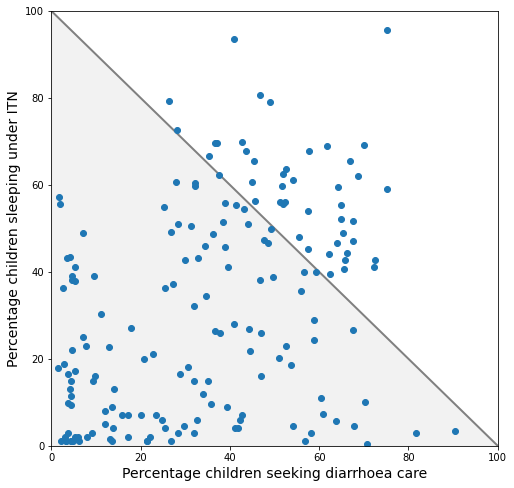
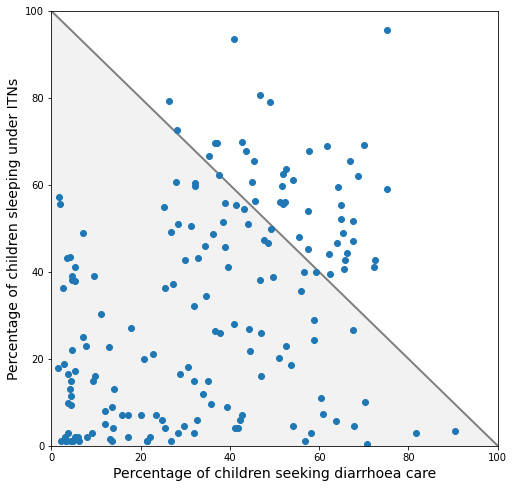
Update documentation

Changed region(s): [[0.0, 0.1537, 0.0623, 0.7992], [0.2179, 0.9529, 0.8405, 0.9836]]

diff --git a/docs/data_analysis.html b/docs/data_analysis.html
@@ -1068,8 +1068,8 @@
 <div class="cell_input docutils container">
 <div class="highlight-ipython3 notranslate"><div class="highlight"><pre><span></span><span class="n">df_itn</span><span class="p">[</span><span class="s1">&#39;National&#39;</span><span class="p">]</span><span class="o">.</span><span class="n">hist</span><span class="p">(</span><span class="n">bins</span> <span class="o">=</span> <span class="nb">range</span><span class="p">(</span><span class="mi">0</span><span class="p">,</span> <span class="mi">101</span><span class="p">,</span> <span class="mi">10</span><span class="p">))</span>
 
-<span class="n">plt</span><span class="o">.</span><span class="n">ylabel</span><span class="p">(</span><span class="s1">&#39;Number country surveys&#39;</span><span class="p">)</span>
-<span class="n">plt</span><span class="o">.</span><span class="n">xlabel</span><span class="p">(</span><span class="s1">&#39;Percentage children sleeping under ITN&#39;</span><span class="p">)</span>
+<span class="n">plt</span><span class="o">.</span><span class="n">ylabel</span><span class="p">(</span><span class="s1">&#39;Number of country surveys&#39;</span><span class="p">)</span>
+<span class="n">plt</span><span class="o">.</span><span class="n">xlabel</span><span class="p">(</span><span class="s1">&#39;Percentage of children sleeping under ITNs&#39;</span><span class="p">)</span>
 
 <span class="n">plt</span><span class="o">.</span><span class="n">show</span><span class="p">()</span>
 </pre></div>
@@ -1124,8 +1124,8 @@
 
 <span class="n">plt</span><span class="o">.</span><span class="n">plot</span><span class="p">(</span><span class="n">data_dc</span><span class="p">,</span> <span class="n">data_itn</span><span class="p">,</span> <span class="s1">&#39;o&#39;</span><span class="p">)</span>
 
-<span class="n">plt</span><span class="o">.</span><span class="n">ylabel</span><span class="p">(</span><span class="s1">&#39;Percentage children sleeping under ITN&#39;</span><span class="p">,</span> <span class="n">size</span><span class="o">=</span> <span class="mi">14</span><span class="p">)</span>
-<span class="n">plt</span><span class="o">.</span><span class="n">xlabel</span><span class="p">(</span><span class="s1">&#39;Percentage children seeking diarrhoea care&#39;</span><span class="p">,</span> <span class="n">size</span> <span class="o">=</span> <span class="mi">14</span><span class="p">)</span>
+<span class="n">plt</span><span class="o">.</span><span class="n">ylabel</span><span class="p">(</span><span class="s1">&#39;Percentage of children sleeping under ITNs&#39;</span><span class="p">,</span> <span class="n">size</span><span class="o">=</span> <span class="mi">14</span><span class="p">)</span>
+<span class="n">plt</span><span class="o">.</span><span class="n">xlabel</span><span class="p">(</span><span class="s1">&#39;Percentage of children seeking diarrhoea care&#39;</span><span class="p">,</span> <span class="n">size</span> <span class="o">=</span> <span class="mi">14</span><span class="p">)</span>
 
 <span class="n">plt</span><span class="o">.</span><span class="n">show</span><span class="p">()</span>
 </pre></div>
